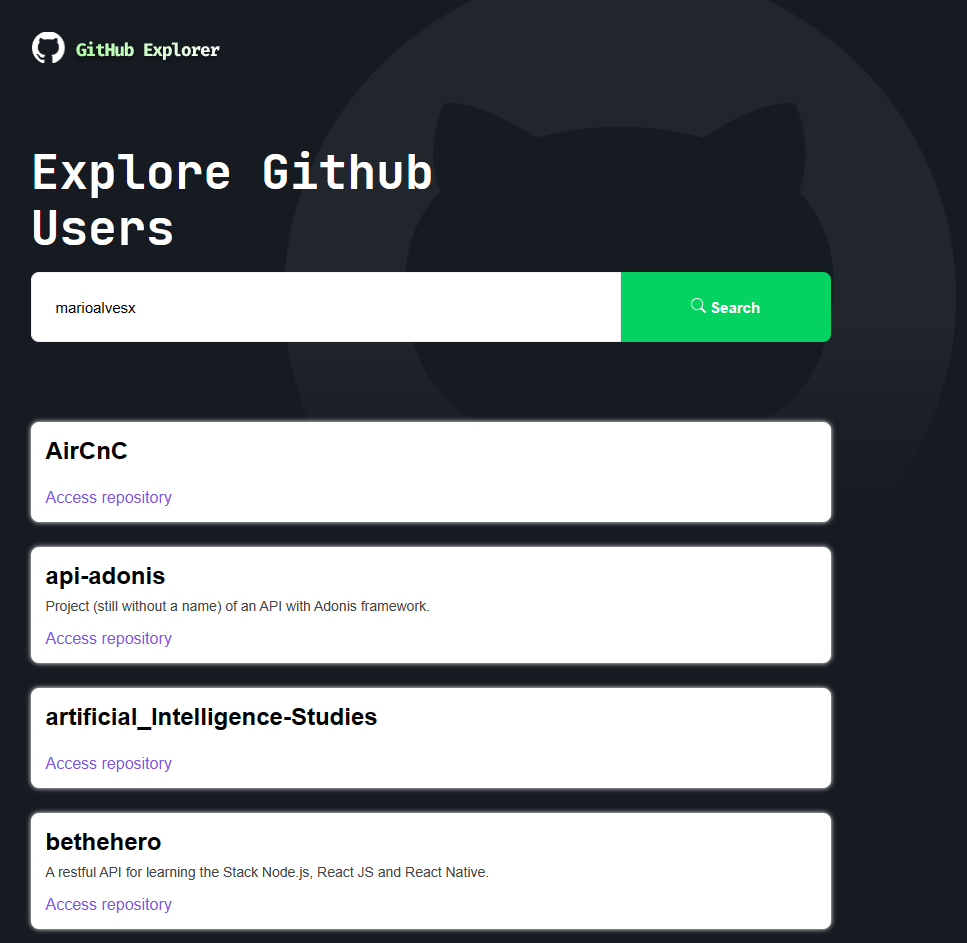
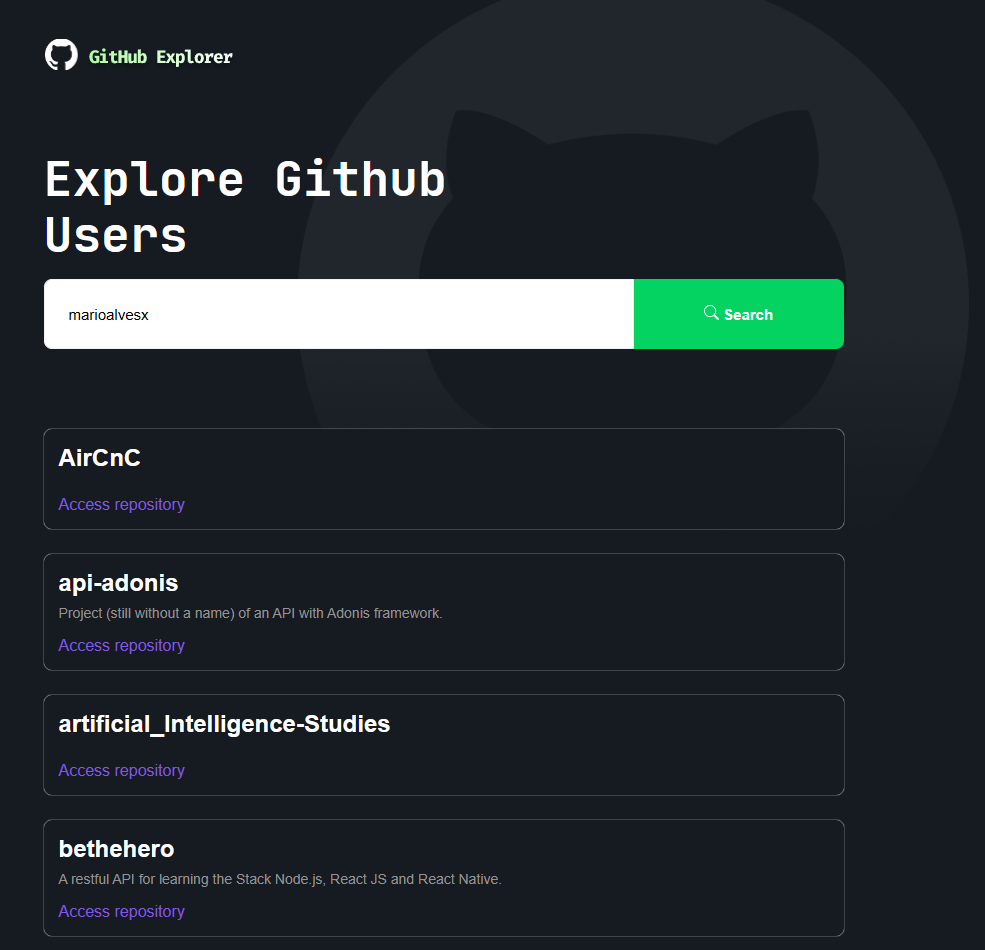
Update appBackground image and list style

diff --git a/src/styles/repositories.scss b/src/styles/repositories.scss
@@ -80,16 +80,16 @@ section.repository-list {
       li {
         border-radius: 8px;
         padding: 15px;
-        box-shadow: 0px 0px 5px #ffffff, 0px 0px 0px #c9d1d9;
-        background-color: #ffff;
-        color: black;
+        box-shadow: 0px 0px 1px #ffffff, 0px 0px 1px #c9d1d9;
+        background-color: #161b22;
+        color: white;
         & + li {
           margin-top: 25px;
         }
 
         p {
           font-size: 14px;
-          color: #444;
+          color: #939393;
           margin-top: 8px;
         }
 
